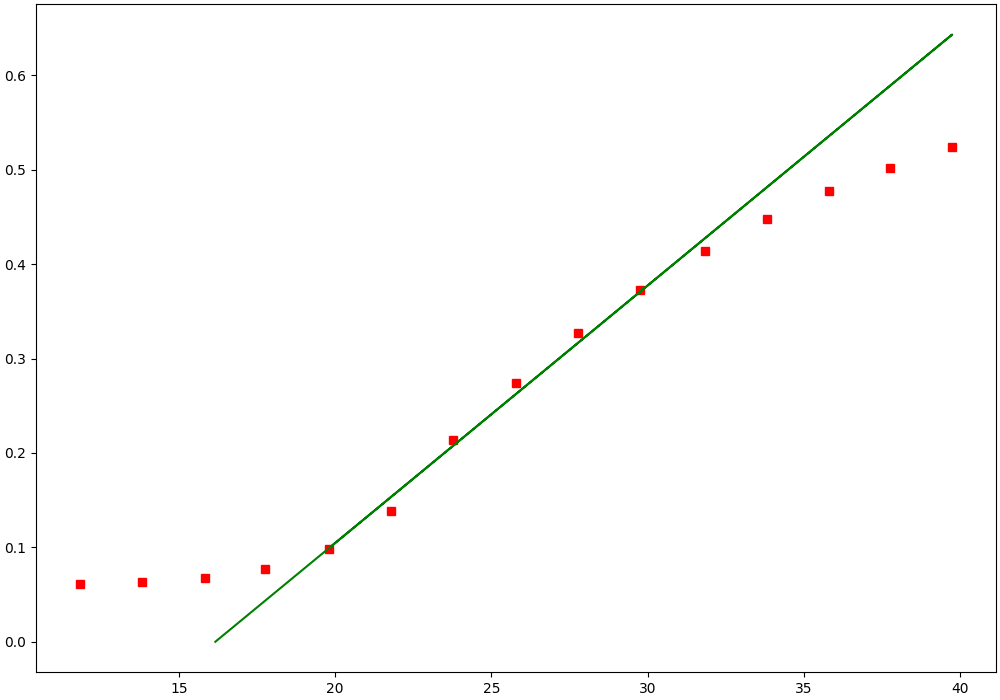
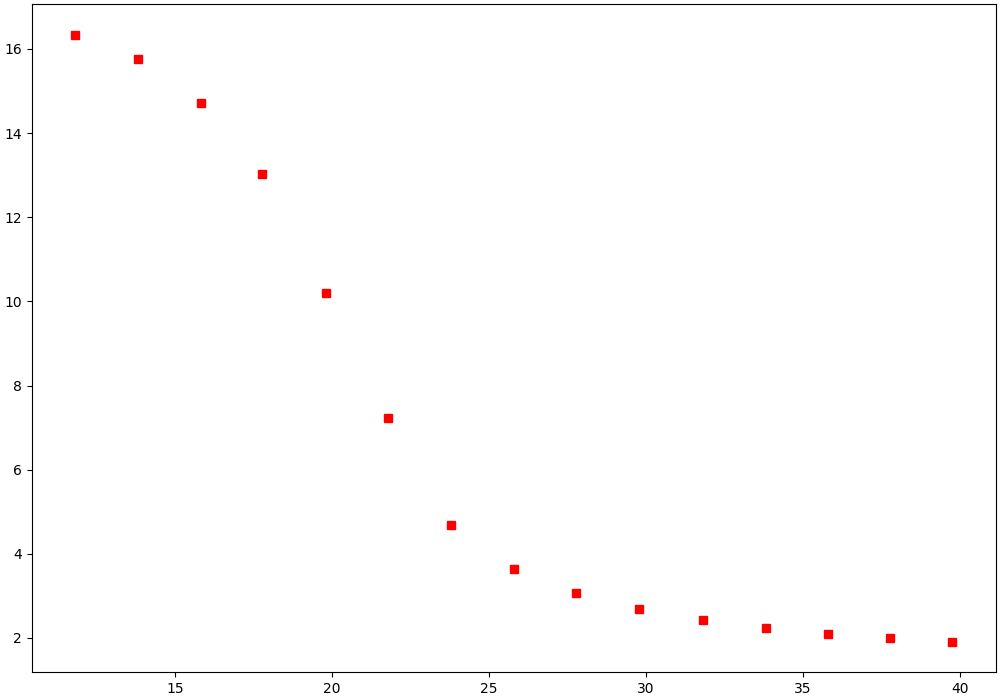
#

diff --git a/3.4.2/1.py b/3.4.2/1.py
@@ -27,7 +27,7 @@ x = np.array(T_list)
 y_list = []
 
 for i in range(len(t_list)):
-    y_list.append(1 / ((float)(t_list[i] ** 2 - t_0 ** 2)))
+    y_list.append(((float)(t_list[i] ** 2 - t_0 ** 2)))
 
 y = np.array(y_list)
 
@@ -53,7 +53,7 @@ print(-b/a)
 fig, ax = plt.subplots(figsize=(10,7), constrained_layout=True)
 
 plt.plot(x, y, 'rs')
-plt.plot(x_ful_aproc, y_fit, 'g')
+#plt.plot(x_ful_aproc, y_fit, 'g')
 
 plt.savefig("1.png")
 
